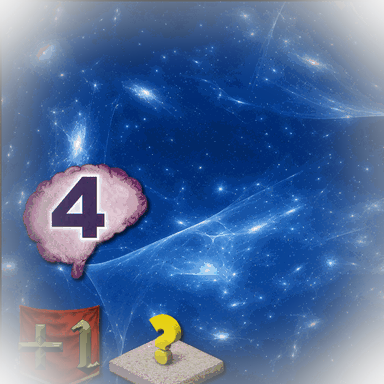
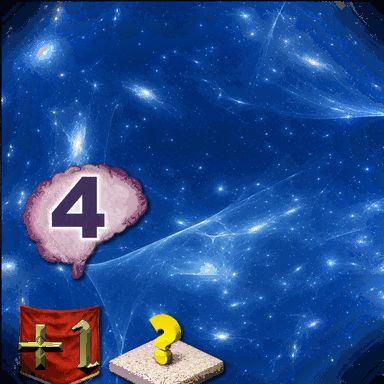
Revise possessed token art: clean rectangles + larger nested enemy
The possessed token faces carried a soft dark vignette baked into their
corners (a "glow" that obscured the art), and PossessedEnemyFace trimmed
it with a rounded-corner clip - which in turn distorted the delta numbers
near the corners. Two changes fix both:

- Re-clean the 9 possessed PNGs to plain starfield rectangles: divide out
  the vignette's alpha falloff to restore the corners, then flatten to a
  full-opacity rectangle. Sharp corners, every delta icon intact.
- Rebuild PossessedEnemyFace as a wider-than-tall composite: the square
  tile on the left with its deltas, and a full-size circular enemy nested
  against its right and protruding past the tile's edge (the way the
  cardboard stacks, rulebook p.7). The enemy face is an opaque circle drawn
  on top, so no cut-out/notch is needed - it just covers the overlap, and
  the tile's left-side deltas stay visible. Drops the rounded-rect clip
  Shape entirely.

Matches the TTS reference tiles; sizing/placement dialed in with the author.

Claude-Session: https://claude.ai/code/session_01J3WhapoJ51pBz1smU4dCHk

diff --git a/app/src/main/kotlin/com/guyteichman/mageknightbuddy/ui/enemypicker/PossessedTokenArt.kt b/app/src/main/kotlin/com/guyteichman/mageknightbuddy/ui/enemypicker/PossessedTokenArt.kt
@@ -5,6 +5,7 @@ import android.graphics.BitmapFactory
 import androidx.compose.foundation.Image
 import androidx.compose.foundation.background
 import androidx.compose.foundation.layout.Box
+import androidx.compose.foundation.layout.offset
 import androidx.compose.foundation.layout.padding
 import androidx.compose.foundation.layout.size
 import androidx.compose.foundation.shape.CircleShape
@@ -13,7 +14,6 @@ import androidx.compose.material3.Text
 import androidx.compose.runtime.Composable
 import androidx.compose.runtime.remember
 import androidx.compose.ui.Alignment
-import androidx.compose.ui.BiasAlignment
 import androidx.compose.ui.Modifier
 import androidx.compose.ui.draw.clip
 import androidx.compose.ui.graphics.ImageBitmap
@@ -27,49 +27,54 @@ import com.guyteichman.mageknightbuddy.domain.PossessedToken
 
 /**
  * Renders one **possessed enemy** (docs/rules/apocalypse-dragon.md): the [circular] enemy token
- * superimposed on the [possessed] token, the way the cardboard stacks (rulebook p.7). The possessed
- * token is the full-size background disc; the circular enemy sits on top at
- * [CIRCULAR_ON_POSSESSED_SCALE] of that, covering its centre so the possessed token's delta icons
- * peek out around the rim. The *numbers* shown elsewhere are the summed values
+ * dropped onto the [possessed] token, the way the cardboard stacks (rulebook p.7). The possessed
+ * token is a square starfield tile carrying the delta icons down its left; the circular enemy - the
+ * same diameter as any other enemy face - nests against its right side and **protrudes past its right
+ * edge**, so the composite is wider than it is tall ([COMPOSITE_ASPECT]). Because the enemy face is an
+ * opaque circle drawn on top, it simply covers the tile where they overlap and the tile's delta icons
+ * stay visible on the left - no cut-out needed. The *numbers* shown elsewhere are the summed values
  * ([com.guyteichman.mageknightbuddy.domain.PossessedEnemy.combine]) - this is only the art.
  */
 @Composable
 internal fun PossessedEnemyFace(circular: EnemyToken, possessed: PossessedToken, size: Dp) {
-    Box(modifier = Modifier.size(size)) {
-        // The possessed token fills the box; its baked PNG alpha is the (non-circular) void shape,
-        // with the delta icons down its left side.
-        PossessedTokenFace(possessed = possessed, size = size)
-        // The circular enemy is placed offset toward the right - the way it sits on the cardboard
-        // (rulebook p.7) - so the possessed token's left-side deltas stay visible rather than being
-        // covered. BiasAlignment(+bias, 0) shifts the child right of centre without a hard offset.
-        Box(modifier = Modifier.align(BiasAlignment(horizontalBias = ENEMY_RIGHT_BIAS, verticalBias = 0f))) {
-            EnemyTokenFace(token = circular, size = size * CIRCULAR_ON_POSSESSED_SCALE)
+    // [size] is the tile side and the enemy diameter (matching a normal enemy face). The composite is
+    // wider by the enemy's overhang past the tile's right edge.
+    val compositeWidth = size * COMPOSITE_ASPECT
+    Box(modifier = Modifier.size(width = compositeWidth, height = size)) {
+        // Possessed tile, flush to the left. Its cleaned art is a plain rectangle (an earlier
+        // rounded-corner clip distorted the delta numbers), so it's drawn as-is.
+        PossessedTokenFace(possessed = possessed, size = size, modifier = Modifier.align(Alignment.CenterStart))
+        // Circular enemy on top, its centre [ENEMY_CENTER_X] of the way across the tile. Its box is
+        // offset from the composite's left by (centre - radius); radius is half the diameter (= size).
+        Box(modifier = Modifier.align(Alignment.CenterStart).offset(x = size * (ENEMY_CENTER_X - 0.5f))) {
+            EnemyTokenFace(token = circular, size = size)
         }
     }
 }
 
 /**
- * The possessed token's own face at [size], clipped to a circle. If its art is bundled (an asset at
- * `enemy-tokens/<id>.png` or `.jpg`, per ADR-0007) it's drawn; otherwise a themed "possession" disc
- * with the token's modifier summary stands in - the same graceful-degradation the round
- * [EnemyTokenFace] uses, so the picker works before the possessed art is sourced.
+ * The possessed token's own face at [size] - a plain square tile (its cleaned art is a starfield
+ * rectangle with the delta icons, no rounding). [modifier] lets a caller position it (e.g.
+ * [PossessedEnemyFace] aligns it left). If its art is bundled (an asset at `enemy-tokens/<id>.png`
+ * or `.jpg`, per ADR-0007) it's drawn; otherwise a themed "possession" disc with the token's modifier
+ * summary stands in - the same graceful-degradation the round [EnemyTokenFace] uses, so the picker
+ * works before the possessed art is sourced.
  */
 @Composable
-internal fun PossessedTokenFace(possessed: PossessedToken, size: Dp) {
+internal fun PossessedTokenFace(possessed: PossessedToken, size: Dp, modifier: Modifier = Modifier) {
     val context = LocalContext.current
     val bitmap = remember(possessed.id) { loadPossessedBitmap(context, possessed.id) }
 
     if (bitmap != null) {
-        // No clip - the PNG's baked soft-edged void alpha is the token's own (non-circular) shape,
-        // the same "the art's alpha is the silhouette" approach a ruin hexagon uses.
+        // No clip: the cleaned art is already a plain rectangle the size of the tile.
         Image(
             bitmap = bitmap,
             contentDescription = "Possessed token",
-            modifier = Modifier.size(size),
+            modifier = modifier.size(size),
         )
     } else {
         Box(
-            modifier = Modifier
+            modifier = modifier
                 .size(size)
                 .clip(CircleShape)
                 .background(MaterialTheme.colorScheme.tertiaryContainer),
@@ -100,8 +105,8 @@ internal fun PossessedToken.summary(): String = buildList {
 
 /** Loads `enemy-tokens/<id>.png` (then `.jpg`) from assets, or null if the possessed art isn't bundled yet. */
 private fun loadPossessedBitmap(context: Context, id: String): ImageBitmap? {
-    // Possessed faces are cut to a transparent-background circle, so PNG is tried first; a JPG crop
-    // still works as a fallback source. assets.open throws when absent - that's the "no art" signal.
+    // Possessed tiles are square PNGs (transparent-free), so PNG is tried first; a JPG crop still
+    // works as a fallback source. assets.open throws when absent - that's the "no art" signal.
     for (ext in listOf("png", "jpg")) {
         try {
             context.assets.open("enemy-tokens/$id.$ext").use { stream ->
@@ -114,10 +119,12 @@ private fun loadPossessedBitmap(context: Context, id: String): ImageBitmap? {
     return null
 }
 
-/** The superimposed circular enemy's size relative to the possessed token (rulebook p.7 stacking) -
- *  smaller than the token so its left-side deltas remain visible around the offset enemy. */
-private const val CIRCULAR_ON_POSSESSED_SCALE = 0.58f
+/**
+ * Enemy-circle centre X as a fraction of the possessed tile's width (> 1.0 would be off the tile;
+ * 0.909 sits it near the right, so its left arc clears the tile's left-side delta icons and its right
+ * arc overhangs past the tile's right edge). The enemy radius is half the tile side.
+ */
+private const val ENEMY_CENTER_X = 0.909f
 
-/** Horizontal [BiasAlignment] bias for the superimposed enemy: > 0 shifts it right of centre so the
- *  possessed token's delta icons (down the left side) aren't covered (rulebook p.7). */
-private const val ENEMY_RIGHT_BIAS = 0.6f
+/** Composite width as a multiple of the tile side: the tile (1.0) plus the enemy's right overhang. */
+private const val COMPOSITE_ASPECT = ENEMY_CENTER_X + 0.5f
